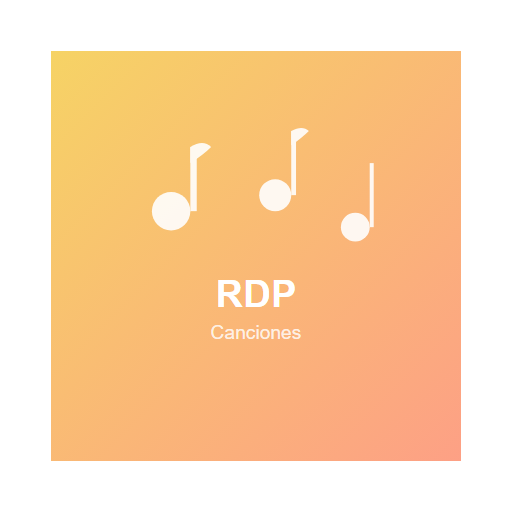
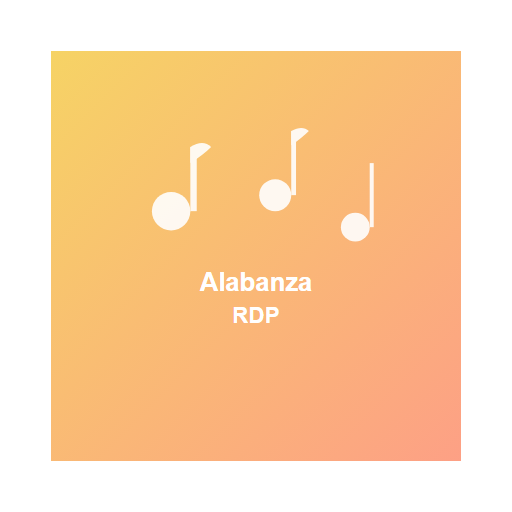
rename

Changed region(s): [[0.375, 0.5312, 0.625, 0.6875]]

diff --git a/pages/install-pwa.vue b/pages/install-pwa.vue
@@ -4,7 +4,7 @@
             <div class="col-12">
                 <div class="card">
                     <div class="card-header">
-                        <h3><i class="bi bi-download"></i> Instalación de PWA - RDP Canciones</h3>
+                        <h3><i class="bi bi-download"></i> Instalación de PWA - Alabanza RDP</h3>
                     </div>
                     <div class="card-body">
 
@@ -61,7 +61,7 @@
                                 <h5>Instalación:</h5>
                                 <button class="btn btn-primary btn-lg" @click="installApp">
                                     <i class="bi bi-download"></i>
-                                    Instalar RDP Canciones
+                                    Instalar Alabanza RDP
                                 </button>
                                 <p class="text-muted mt-2">
                                     Al instalar, podrás acceder a la aplicación desde tu escritorio o pantalla de
@@ -91,10 +91,10 @@
                                                 <ol>
                                                     <li>Busca el ícono <i class="bi bi-download"></i> en la barra de
                                                         direcciones</li>
-                                                    <li>Haz clic en "Instalar RDP Canciones"</li>
+                                                    <li>Haz clic en "Instalar Alabanza RDP"</li>
                                                     <li>Confirma la instalación</li>
                                                 </ol>
-                                                <p><strong>Alternativa:</strong> Menú (⋮) > "Instalar RDP Canciones..."
+                                                <p><strong>Alternativa:</strong> Menú (⋮) > "Instalar Alabanza RDP..."
                                                 </p>
                                             </div>
                                         </div>
@@ -273,9 +273,9 @@
 
     // Meta tags para la página
     useHead({
-        title: 'Instalar PWA - RDP Canciones',
+        title: 'Instalar PWA - Alabanza RDP',
         meta: [
-            { name: 'description', content: 'Instrucciones para instalar RDP Canciones como aplicación web progresiva' }
+            { name: 'description', content: 'Instrucciones para instalar Alabanza RDP como aplicación web progresiva' }
         ]
     })
 </script>

diff --git a/nuxt.config.ts b/nuxt.config.ts
@@ -30,7 +30,7 @@ export default defineNuxtConfig({
   },
   app: {
     head: {
-      title: 'RDP',
+      title: 'Alabanza RDP',
       meta: [
         { charset: 'utf-8' },
         { name: 'viewport', content: 'width=device-width, initial-scale=1' },
@@ -38,7 +38,7 @@ export default defineNuxtConfig({
         { name: 'theme-color', content: '#f6d365' },
         { name: 'apple-mobile-web-app-capable', content: 'yes' },
         { name: 'apple-mobile-web-app-status-bar-style', content: 'default' },
-        { name: 'apple-mobile-web-app-title', content: 'RDP Canciones' },
+        { name: 'apple-mobile-web-app-title', content: 'Alabanza RDP' },
         { name: 'msapplication-TileColor', content: '#f6d365' }
       ],
       link: [

diff --git a/components/MenuComponent.vue b/components/MenuComponent.vue
@@ -2,7 +2,7 @@
     <div>
         <nav class="navbar navbar-expand-lg navbar-dark bg-dark fixed-top text-white">
             <div class="container-fluid">
-                <a class="navbar-brand" href="#">RDP - {{ usuario ? usuario.email.split('@')[0] : '' }}</a>
+                <a class="navbar-brand" href="#">Alabanza RDP - {{ usuario ? usuario.email.split('@')[0] : '' }}</a>
                 <button class="navbar-toggler" type="button" data-bs-toggle="collapse"
                     data-bs-target="#navbarSupportedContent" aria-controls="navbarSupportedContent"
                     aria-expanded="false" aria-label="Toggle navigation">

diff --git a/components/PWAInstallPrompt.vue b/components/PWAInstallPrompt.vue
@@ -7,7 +7,7 @@
                     <div class="col">
                         <div class="d-flex align-items-center">
                             <i class="bi bi-download me-2"></i>
-                            <span>¿Instalar RDP Canciones como aplicación?</span>
+                            <span>¿Instalar Alabanza RDP como aplicación?</span>
                         </div>
                     </div>
                     <div class="col-auto">
